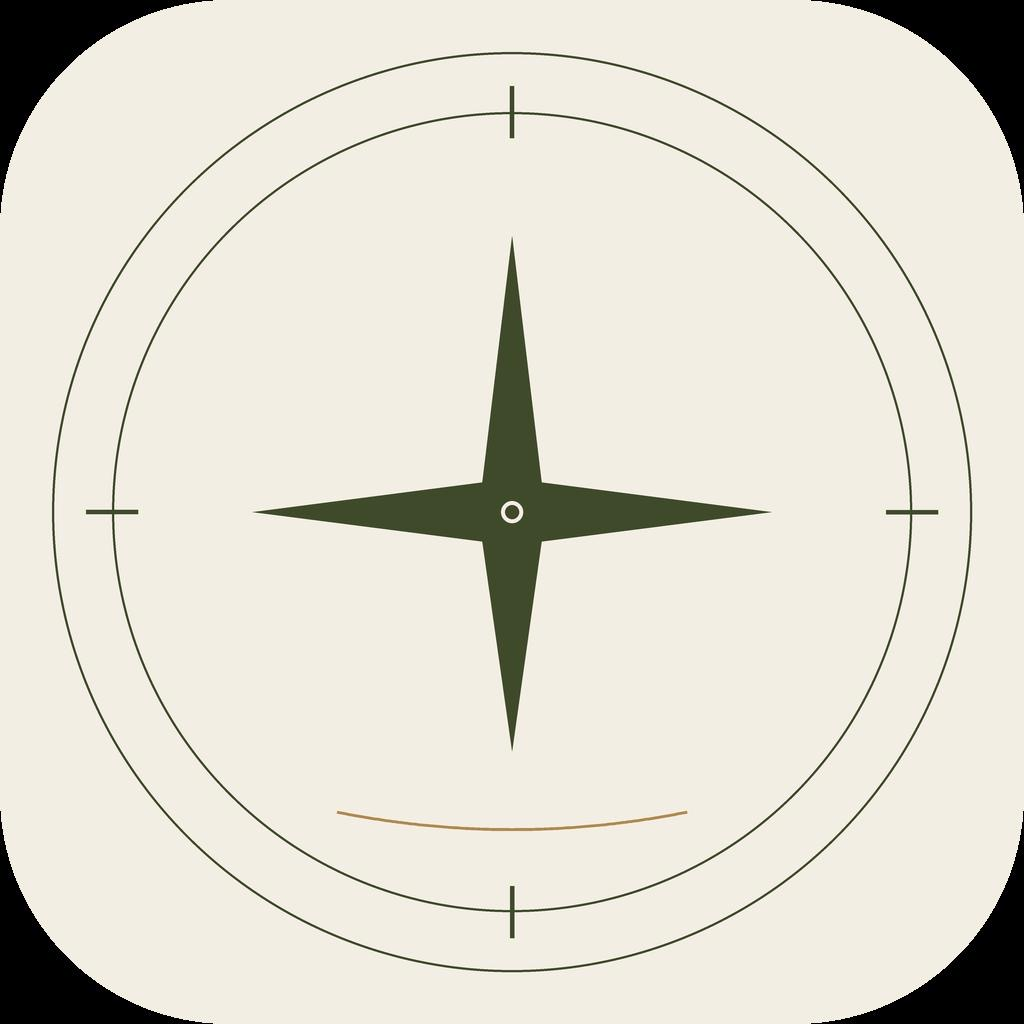
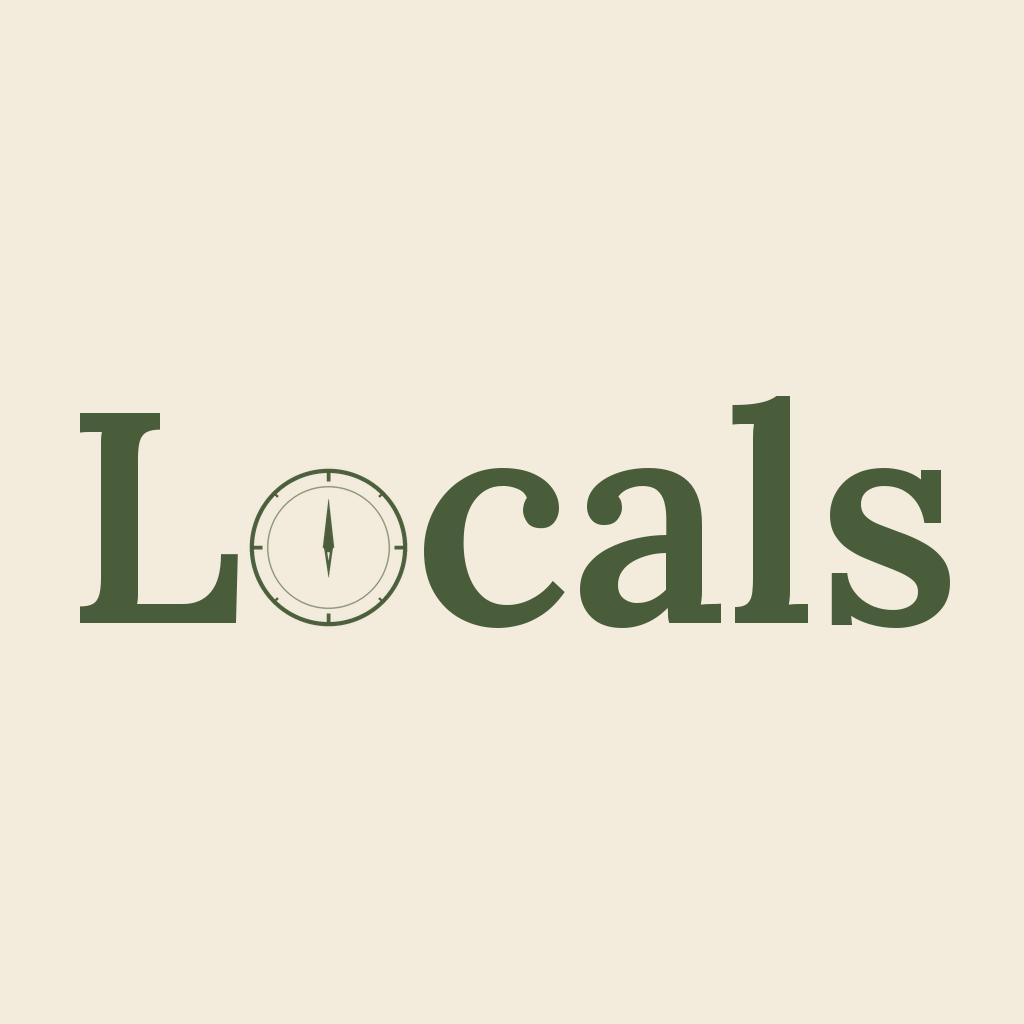
Atualiza icone do app para novo design Locals

diff --git a/app/(tabs)/index.tsx b/app/(tabs)/index.tsx
@@ -117,11 +117,8 @@ export default function HomeScreen() {
         >
           <View>
             <Text style={{ fontSize: 32, fontFamily: 'serif', fontStyle: 'italic', color: colors.foreground, fontWeight: '400' }}>
-              LocalsApp
+              Locals
             </Text>
-            <Text className="text-muted text-xs tracking-widest font-semibold uppercase" style={{ marginTop: -2 }}>
-            {t.home.curatedRoutes}
-          </Text>
           </View>
           <View className="flex-row gap-2">
             <TouchableOpacity
@@ -155,33 +152,40 @@ export default function HomeScreen() {
           </View>
         ) : (
           /* Empty state - Create first trip CTA */
-          <View className="mx-6 mb-6 rounded-3xl overflow-hidden" style={{ height: 200 }}>
-            <ImageBackground
-              source={{ uri: 'https://images.unsplash.com/photo-1488085061387-422e29b40080?w=800' }}
-              style={{ flex: 1 }}
-              imageStyle={{ borderRadius: 24 }}
+          <TouchableOpacity
+            activeOpacity={0.85}
+            onPress={() => setShowCreate(true)}
+            style={{
+              marginHorizontal: 24,
+              marginBottom: 24,
+              height: 200,
+              borderRadius: 24,
+              backgroundColor: colors.emptyStateBackground,
+              alignItems: 'center',
+              justifyContent: 'center',
+              paddingHorizontal: 24,
+              gap: 12,
+            }}
+          >
+            <View
+              style={{
+                width: 48,
+                height: 48,
+                borderRadius: 24,
+                backgroundColor: colors.primary,
+                alignItems: 'center',
+                justifyContent: 'center',
+              }}
             >
-              <LinearGradient
-                colors={['rgba(44,36,22,0.5)', 'rgba(44,36,22,0.5)']}
-                style={{ flex: 1, borderRadius: 24, justifyContent: 'flex-end', padding: 20 }}
-              >
-                <Text style={{ color: colors.textOnPrimary, fontSize: 20, fontFamily: 'serif', fontStyle: 'italic', fontWeight: '600', marginBottom: 4 }}>
-                  {t.home.noTrips}
-                </Text>
-                <View className="flex-row items-center justify-between">
-                  <Text style={{ color: withAlpha(colors.textOnPrimary, 0.9), fontSize: 14 }}>
-                    {t.home.noTripsSubtitle}
-                  </Text>
-                  <TouchableOpacity
-                    onPress={() => setShowCreate(true)}
-                    className="bg-background rounded-full px-5 py-2"
-                  >
-                    <Text className="text-foreground font-semibold text-sm">{t.common.add}</Text>
-                  </TouchableOpacity>
-                </View>
-              </LinearGradient>
-            </ImageBackground>
-          </View>
+              <Ionicons name="add" size={26} color={colors.textOnPrimary} />
+            </View>
+            <Text style={{ color: colors.foreground, fontSize: 20, fontFamily: 'serif', fontStyle: 'italic', fontWeight: '600', textAlign: 'center' }}>
+              {t.home.noTrips}
+            </Text>
+            <Text style={{ color: colors.muted, fontSize: 14, textAlign: 'center' }}>
+              {t.home.noTripsSubtitle}
+            </Text>
+          </TouchableOpacity>
         )}
 
         {/* Já Aconteceram section */}

diff --git a/app/auth/onboarding.tsx b/app/auth/onboarding.tsx
@@ -14,6 +14,12 @@ import { useTranslation } from '@/hooks/use-translation';
 import Svg, { Circle, Line, Path } from 'react-native-svg';
 import { useColors } from '@/hooks/use-colors';
 import { SchemeColors, type ThemeColorPalette } from '@/constants/theme';
+import { useAuthStore } from '@/store/auth';
+
+const ONBOARDING_LANGUAGES = [
+  { code: 'pt', label: 'PT' },
+  { code: 'en', label: 'EN' },
+] as const;
 
 // Text/icon color for content drawn on top of the primary button color, which
 // is identical in both schemes — always the light-scheme background swatch.
@@ -76,6 +82,33 @@ function CompassLogo({ size }: { size: number }) {
   );
 }
 
+function LanguageSwitcher() {
+  const colors = useColors();
+  const styles = useMemo(() => createStyles(colors), [colors]);
+  const preferredLanguage = useAuthStore((s) => s.preferredLanguage ?? 'pt');
+  const setLanguage = useAuthStore((s) => s.setLanguage);
+
+  return (
+    <View style={styles.langSwitcher}>
+      {ONBOARDING_LANGUAGES.map((lang) => {
+        const active = preferredLanguage.slice(0, 2) === lang.code;
+        return (
+          <TouchableOpacity
+            key={lang.code}
+            style={[styles.langOption, active && styles.langOptionActive]}
+            activeOpacity={0.8}
+            onPress={() => setLanguage(lang.code)}
+          >
+            <Text style={[styles.langOptionText, active && styles.langOptionTextActive]}>
+              {lang.label}
+            </Text>
+          </TouchableOpacity>
+        );
+      })}
+    </View>
+  );
+}
+
 export default function OnboardingScreen() {
   const insets = useSafeAreaInsets();
   const t = useTranslation();
@@ -91,6 +124,8 @@ export default function OnboardingScreen() {
   return (
     <View style={[styles.container, { paddingTop: insets.top + 16, paddingBottom: insets.bottom + 24 }]}>
       <StatusBar barStyle="dark-content" backgroundColor={colors.background} />
+
+      <LanguageSwitcher />
 
       {/* Large compass logo */}
       <View style={styles.logoSection}>
@@ -152,6 +187,30 @@ const createStyles = (colors: ThemeColorPalette) => StyleSheet.create({
   },
   logoSection: {
     alignItems: 'center',
+  },
+  langSwitcher: {
+    flexDirection: 'row',
+    alignSelf: 'flex-end',
+    backgroundColor: colors.surface,
+    borderRadius: 20,
+    padding: 3,
+    gap: 2,
+  },
+  langOption: {
+    paddingHorizontal: 14,
+    paddingVertical: 6,
+    borderRadius: 17,
+  },
+  langOptionActive: {
+    backgroundColor: colors.primary,
+  },
+  langOptionText: {
+    fontSize: 12,
+    fontWeight: '700',
+    color: colors.muted,
+  },
+  langOptionTextActive: {
+    color: colors.textOnPrimary,
   },
   titleBlock: {
     alignItems: 'center',

diff --git a/app/profile.tsx b/app/profile.tsx
@@ -33,12 +33,12 @@ function withAlpha(hex: string, alpha: number): string {
 // ─── Constants ────────────────────────────────────────────────────────────────
 
 const LANGUAGES = [
-  { code: 'pt', label: 'Português', flag: '🇧🇷' },
-  { code: 'en', label: 'English', flag: '🇺🇸' },
-  { code: 'es', label: 'Español', flag: '🇪🇸' },
-  { code: 'fr', label: 'Français', flag: '🇫🇷' },
-  { code: 'de', label: 'Deutsch', flag: '🇩🇪' },
-  { code: 'it', label: 'Italiano', flag: '🇮🇹' },
+  { code: 'pt', label: 'Português', initials: 'PT' },
+  { code: 'en', label: 'English', initials: 'EN' },
+  { code: 'es', label: 'Español', initials: 'ES' },
+  { code: 'fr', label: 'Français', initials: 'FR' },
+  { code: 'de', label: 'Deutsch', initials: 'DE' },
+  { code: 'it', label: 'Italiano', initials: 'IT' },
 ];
 
 const LOCALE_MAP: Record<string, string> = {
@@ -116,7 +116,7 @@ function LanguageModal({
               style={[styles.langRow, current === lang.code && styles.langRowActive]}
               onPress={() => { onSelect(lang.code); onClose(); }}
             >
-              <Text style={styles.langFlag}>{lang.flag}</Text>
+              <Text style={styles.langFlag}>{lang.initials}</Text>
               <Text style={[styles.langLabel, current === lang.code && styles.langLabelActive]}>
                 {lang.label}
               </Text>
@@ -809,7 +809,7 @@ const createStyles = (colors: ThemeColorPalette) => StyleSheet.create({
     gap: 12,
   },
   langRowActive: { backgroundColor: withAlpha(colors.primary, 0.10) },
-  langFlag: { fontSize: 22 },
+  langFlag: { fontSize: 13, fontWeight: '700', color: colors.muted, width: 28 },
   langLabel: { flex: 1, fontSize: 16, color: withAlpha(colors.foreground, 0.7) },
   langLabelActive: { color: colors.foreground, fontWeight: '600' },
   langCancelBtn: {

diff --git a/components/trial-banner.tsx b/components/trial-banner.tsx
@@ -11,6 +11,9 @@ function withAlpha(hex: string, alpha: number): string {
   return `${hex}${a}`;
 }
 
+// Upgrade badge/button accent color, same in both light and dark schemes.
+const UPGRADE_COLOR = '#91876E';
+
 /**
  * Displays a banner at the top of the main app during the trial period.
  * Shows days remaining and a CTA to upgrade.
@@ -92,12 +95,12 @@ const createStyles = (colors: ThemeColorPalette) => StyleSheet.create({
     gap: 8,
   },
   upgradeBtn: {
-    backgroundColor: withAlpha(colors.primary, 0.15),
+    backgroundColor: withAlpha(UPGRADE_COLOR, 0.15),
     borderRadius: 6,
     paddingHorizontal: 10,
     paddingVertical: 4,
     borderWidth: 1,
-    borderColor: withAlpha(colors.primary, 0.35),
+    borderColor: withAlpha(UPGRADE_COLOR, 0.35),
   },
   upgradeBtnUrgent: {
     backgroundColor: withAlpha(colors.warning, 0.15),
@@ -106,7 +109,7 @@ const createStyles = (colors: ThemeColorPalette) => StyleSheet.create({
   upgradeText: {
     fontSize: 11,
     fontWeight: '700',
-    color: colors.primary,
+    color: UPGRADE_COLOR,
   },
   upgradeTextUrgent: {
     color: colors.warning,

diff --git a/theme.config.js b/theme.config.js
@@ -29,6 +29,10 @@ const themeColors = {
   // (ex: modal de detalhe, bottom sheet). Um degrau mais claro que `surface`,
   // ainda com contraste garantido para todos os tokens de texto/status.
   cardElevated: { light: '#FDFBF7', dark: '#26261A' },
+  // Fundo do card de estado vazio (ex: "Nenhuma viagem ainda"). Bege sólido
+  // ~18% mais escuro que `background`, para diferenciar o card do fundo da
+  // tela sem depender de foto/gradiente.
+  emptyStateBackground: { light: '#C5C1B8', dark: '#151510' },
 
   // ── Texto ─────────────────────────────────────────────────────────────────
   // Texto principal (títulos, valores, corpo de texto de destaque).

diff --git a/theme.config.d.ts b/theme.config.d.ts
@@ -5,6 +5,7 @@ export const themeColors: {
   surface: { light: string; dark: string };
   card: { light: string; dark: string };
   cardElevated: { light: string; dark: string };
+  emptyStateBackground: { light: string; dark: string };
   foreground: { light: string; dark: string };
   muted: { light: string; dark: string };
   textPlaceholder: { light: string; dark: string };

diff --git a/i18n/fr.ts b/i18n/fr.ts
@@ -115,7 +115,7 @@ export const fr: Translations = {
   home: {
     title: 'Mes Voyages',
     curatedRoutes: 'Routes Sélectionnées',
-    curatedGuides: 'Guides Sélectionnés',
+    curatedGuides: 'Guides les Plus Populaires',
     spotsLabel: 'Lieux',
     newTrip: 'Nouveau voyage',
     noTrips: 'Aucun voyage pour le moment',

diff --git a/i18n/de.ts b/i18n/de.ts
@@ -115,7 +115,7 @@ export const de: Translations = {
   home: {
     title: 'Meine Reisen',
     curatedRoutes: 'Kuratierte Routen',
-    curatedGuides: 'Kuratierte Reiseführer',
+    curatedGuides: 'Beliebteste Reiseführer',
     spotsLabel: 'Sehenswürdigkeiten',
     newTrip: 'Neue Reise',
     noTrips: 'Noch keine Reisen',

diff --git a/i18n/it.ts b/i18n/it.ts
@@ -115,7 +115,7 @@ export const it: Translations = {
   home: {
     title: 'I Miei Viaggi',
     curatedRoutes: 'Percorsi Selezionati',
-    curatedGuides: 'Guide Selezionate',
+    curatedGuides: 'Guide più Popolari',
     spotsLabel: 'Luoghi',
     newTrip: 'Nuovo viaggio',
     noTrips: 'Nessun viaggio ancora',

diff --git a/i18n/es.ts b/i18n/es.ts
@@ -113,7 +113,7 @@ export const es: Translations = {
   home: {
     title: 'Mis Viajes',
     curatedRoutes: 'Rutas Curadas',
-    curatedGuides: 'Guías Curadas',
+    curatedGuides: 'Guías más Populares',
     spotsLabel: 'Lugares',
     newTrip: 'Nuevo viaje',
     noTrips: 'Aún no hay viajes',

diff --git a/i18n/pt.ts b/i18n/pt.ts
@@ -116,7 +116,7 @@ export const pt = {
   home: {
     title: 'Minhas Viagens',
     curatedRoutes: 'Rotas Curadas',
-    curatedGuides: 'Guias Curados',
+    curatedGuides: 'Guias mais Populares',
     spotsLabel: 'Lugares',
     newTrip: 'Nova viagem',
     noTrips: 'Nenhuma viagem ainda',

diff --git a/i18n/en.ts b/i18n/en.ts
@@ -115,7 +115,7 @@ export const en: Translations = {
   home: {
     title: 'My Trips',
     curatedRoutes: 'Curated Routes',
-    curatedGuides: 'Curated Guides',
+    curatedGuides: 'Most Popular Guides',
     spotsLabel: 'Spots',
     newTrip: 'New trip',
     noTrips: 'No trips yet',
